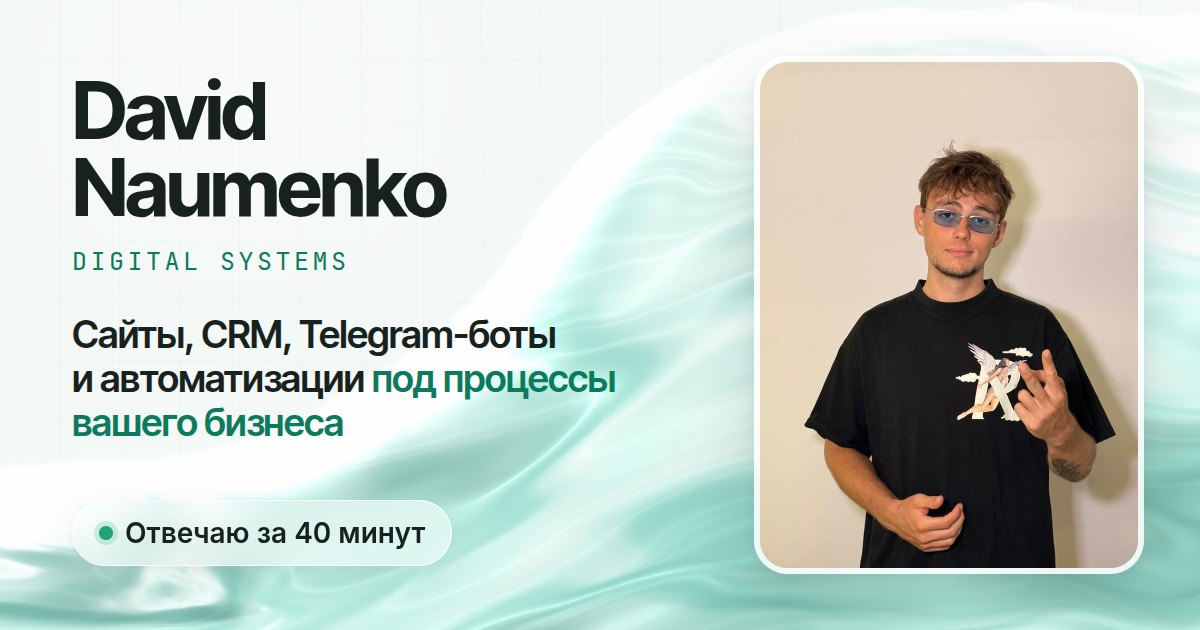
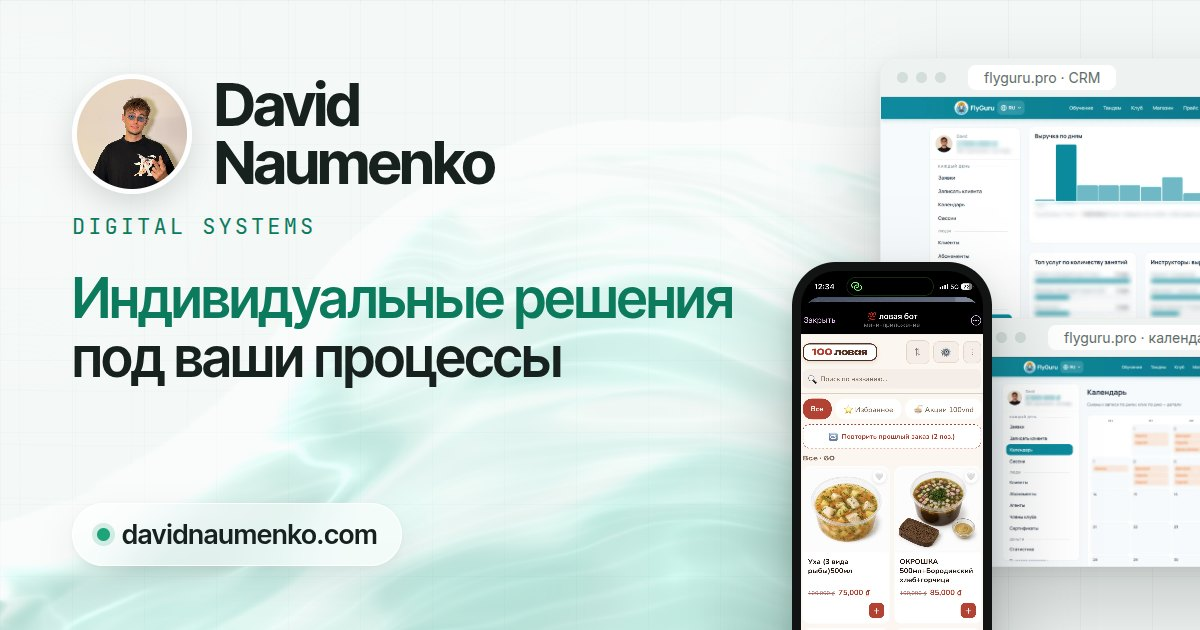
Replace social preview with real interface screenshots
Photo, name and the line "Индивидуальные решения под ваши процессы" next to FlyGuru CRM screens and the 100lovaya Mini App, as chosen by David (variant B).

diff --git a/index.html b/index.html
@@ -23,7 +23,7 @@
 <meta property="og:image" content="https://ezdavidos.github.io/new_portfolio/assets/img/og.jpg">
 <meta property="og:image:width" content="1200">
 <meta property="og:image:height" content="630">
-<meta property="og:image:alt" content="David Naumenko — сайты, CRM, Telegram-боты и автоматизации">
+<meta property="og:image:alt" content="David Naumenko — индивидуальные решения под ваши процессы: экраны CRM FlyGuru и Mini App 100ловой">
 <meta name="twitter:card" content="summary_large_image">
 
 <link rel="preconnect" href="https://fonts.googleapis.com">
